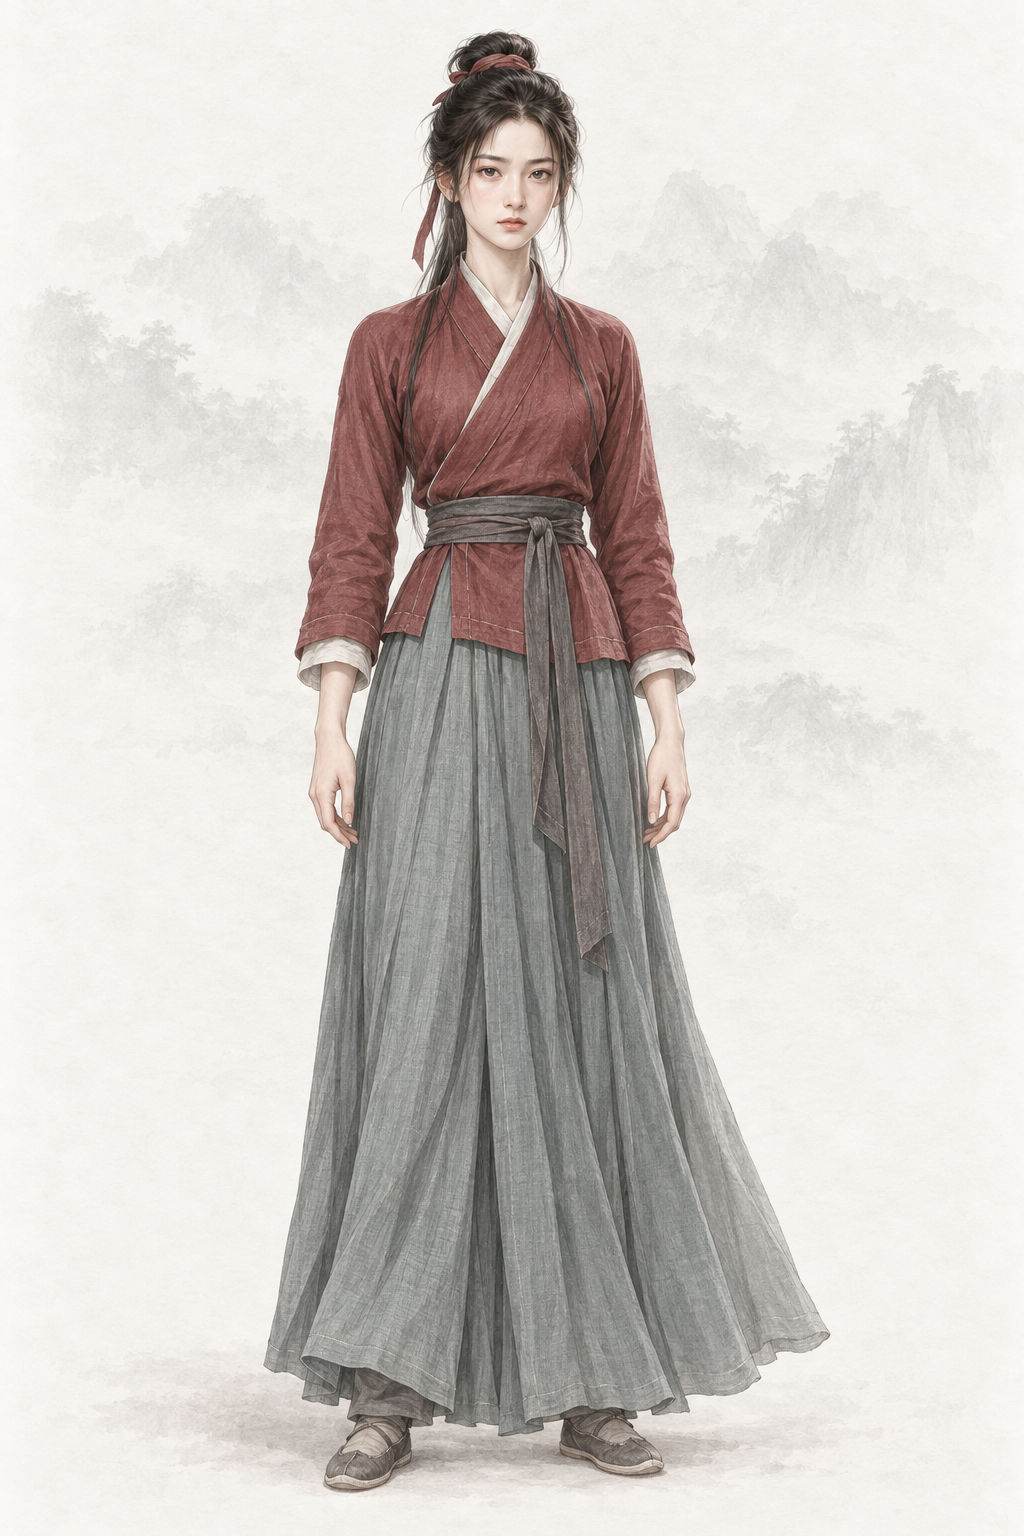
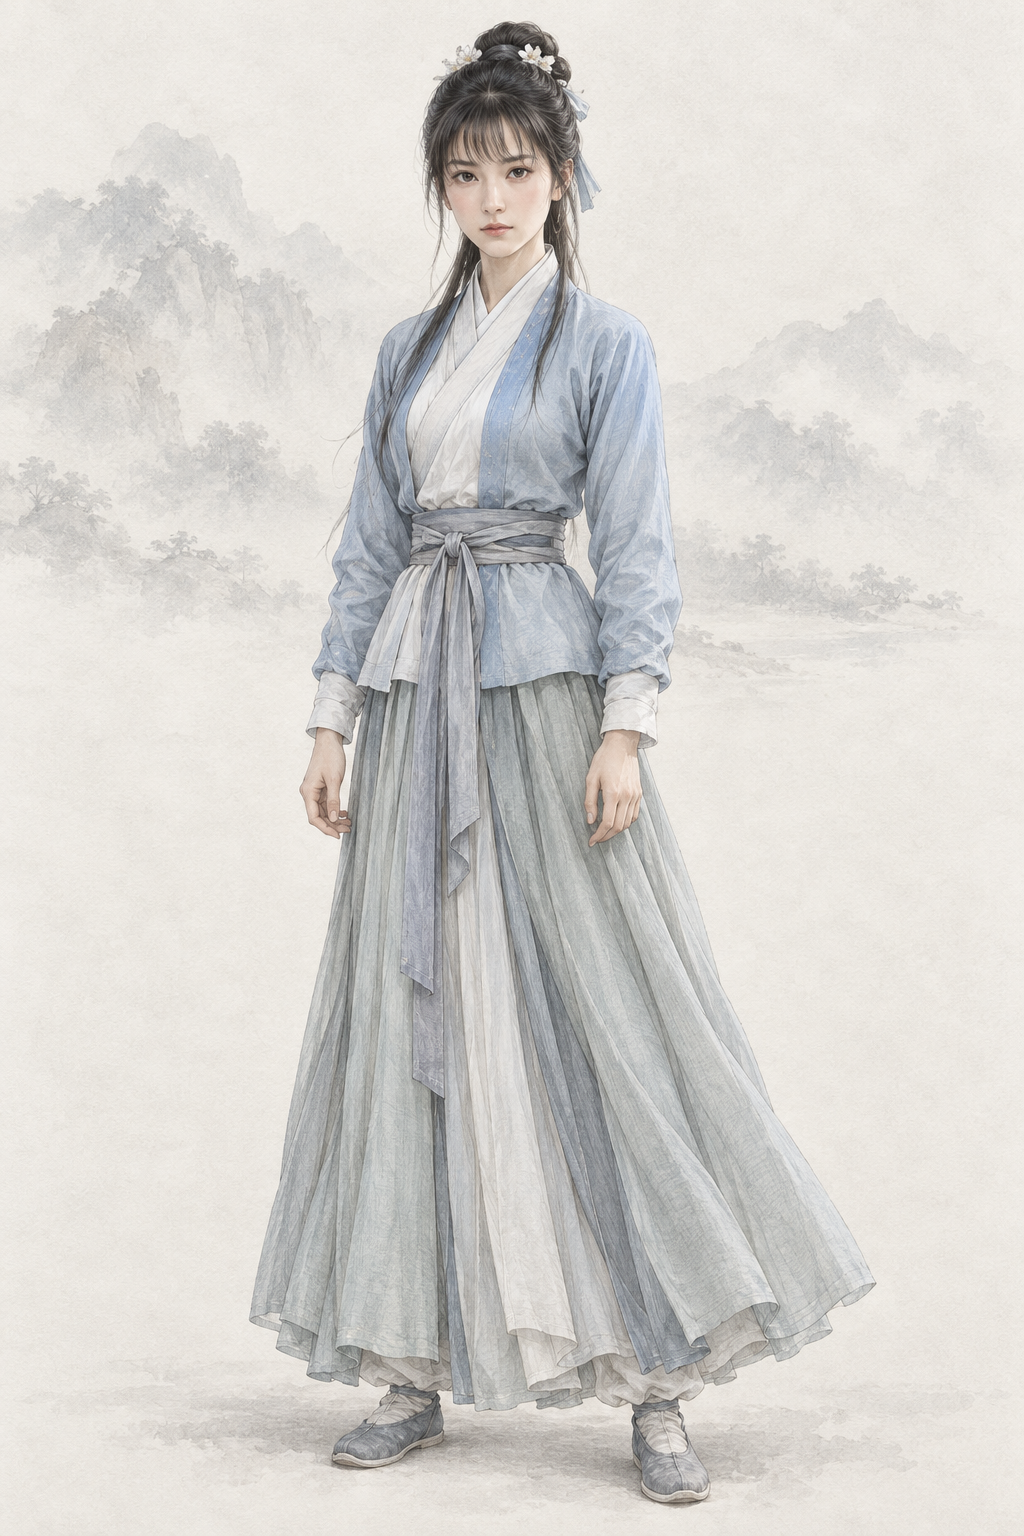
assets(character): por_npc_munianci__ch02_youth_base 穆念慈（codex · AR-32 经典剧照 + 基线）
参考 1983 TVB《射雕英雄传》 剧照（munianci_1983_yangpanpan_hk01_20240720.jpg）与两张同性别基线重出；提示词写回、frontmatter 加 classic_ref。

diff --git a/assets/default/prompts/characters/ch02-shediao/npc_munianci.md b/assets/default/prompts/characters/ch02-shediao/npc_munianci.md
@@ -16,13 +16,40 @@ references:
 status: redo
 realism_revision: user_identity_pose_20261001
 redo_reason: "旧图以剧照为第一身份参考生成（A 级肖像风险；REVIEW-portraits-A 待作者裁定项，按默认重出），按原著外貌用文字原创重做"
-reference_upload: []
+reference_upload:
+- .agents/coord/imagegen-reference/identity-20261001/shediao/munianci_1983_yangpanpan_hk01_20240720.jpg
+- assets/default/baseline/character/female/ref_npc_wangyuyan__ch01_base01.png
+- assets/default/baseline/character/female/ref_npc_xiaolongnv__ch03_base01.png
 codex_prompt_rev: 2026-10-02
+classic_ref:
+  version: 1983 TVB《射雕英雄传》
+  stills:
+  - .agents/coord/imagegen-reference/identity-20261001/shediao/munianci_1983_yangpanpan_hk01_20240720.jpg
 ---
 
 # 穆念慈 · 人物写实修正
 
 ## Gemini 提示词
+
+> 2026-10-02 AR-32 重出（5 号出图员，codex exec · image_gen）：主要角色改为参考经典影视版剧照加项目基线生成。上传顺序：1983 TVB《射雕英雄传》 剧照 1 张（munianci_1983_yangpanpan_hk01_20240720.jpg），最后两张为同性别画风基线（缩小版 JPEG）。剧照只借造型、气质与面部特征，画面按项目画风重绘、不复制照片。上一版（AR-31 文字版）保留在下一节作历史。
+
+```text
+生成一张 2:3 竖幅全身人物立绘：单人、单一视角、完整全身——头顶、双手、双脚和手中器物的两端都在画面内，四周留出自然空白；人物站姿自然，身体基本朝向正面，头部端正（不歪头、不仰不俯），镜头平视。
+【画风】写实手绘古风人物插画，与本项目写实武侠角色立绘同一画风，像功力深厚的画师用细腻笔触画出的真实美人。手绘插画质感，不是 CG 渲染：不要过度光滑的皮肤、完美对称的五官、塑料高光、过度锐利的发丝；保留自然的笔触和细微不完美。肌肤细腻自然，看得见极细的肤理和自然的左右不对称，不磨皮、不油亮、不打粉；头发是一缕缕自然的发丝和少量碎发；布料看得出经纬纹理、厚薄和自然垂坠的褶皱，干净完整；整体设色低饱和、雅致；柔和的自然光从左上方照来，明暗过渡自然，不打舞台光、轮廓光或美颜柔光。不是照片，不是三维渲染，不是动漫或游戏 CG，也不是油画（没有厚涂笔触和画布纹理）。
+【背景】不透明的暖浅灰色纸底，只在远处有极淡的水墨远山和薄雾，大面积留白；人物与背景明暗分明、轮廓边缘干净完整（后续要自动抠图），水墨和纸纹只在背景里，不侵入人物和衣服；脚下只有很淡的一点接触阴影。
+【人物】穆念慈，《射雕英雄传》杨铁心的义女，随义父在中都街头比武招亲的阶段；坚毅、正直，有自己的主见。
+【年龄与体态】原著十七八岁，按本作规定画成约二十岁的成年年轻女子，身材修长匀称，有习武的轻捷。成年女性的五官骨相与身体比例（约 7 头身），衣着完整端庄、不透明、不暴露、不性感化。
+【经典造型】以八十年代经典港剧里那位娟秀坚毅的穆念慈为蓝本（见剧照）：清秀的鹅蛋脸、明亮清澈而坚毅的眼睛；乌发挽髻、额前一层薄薄的刘海、髻边点缀几朵小白花；一身浅蓝与月白相间的衣裙；温婉中带着英气。
+【面容】原著概括（待考）：玉立亭亭，虽脸有风尘之色，但明眸皓齿、容颜娟好。具体为：清秀的鹅蛋脸、下颌线利落；眉毛清秀而平；一双明亮清澈的眼睛，眼神坚毅；鼻梁秀直；唇形端正；肌肤白净，带一点旅途风尘。娟秀美丽、英气内敛。
+【发式】乌发挽成简洁的发髻，髻边点缀几朵小白花，额前一层薄薄的刘海。
+【服饰】浅蓝色交领右衽窄袖短袄、月白内衫（配色取经典造型），灰青长裙（裙内有长裤），布腰带，布鞋；朴素而整洁，是江湖卖艺人家的打扮。
+【道具】空手，双手自然垂下。
+【姿态与神情】挺拔站立，神情坚毅、略带忧思。
+【不要】画面里不要任何文字、题款、印章、签名、水印、边框、分格或多视图；不要第二个人；不要幼态（童颜、娃娃脸、婴儿肥、儿童或少年身材、大头小身）；不要塑料感皮肤、磨皮美颜、网红脸（尖下巴大眼高鼻的模板脸）、过度对称、浓妆、偶像式打光、蜡像感；不要照片质感、三维渲染或动漫大眼；不要歪头、斜镜头；不要多指、缺指（设定的伤残除外）、手与器物粘连或悬空；汉式交领必须右衽（穿着者的左襟压在右襟上），不要左衽（设定为少数民族服制的除外），不要水平镜像；不要现代物品、发光特效、法阵或能量光。不要娃娃脸、少女或儿童身材；不要浓妆、珠翠；不要抱婴儿（那是后来的阶段）。
+【参考图】随提示词上传的参考图共 3 张，按顺序：第 1 张是这个角色经典影视造型的剧照：借鉴其发型、服饰、配色、标志道具、气质和面部特征，让人一眼认出是这个角色；但必须重新绘制成本项目的画风，不要照片质感，不要照搬剧照的构图、光影、背景和姿势，也不要做成照片修图；剧照与上文文字有出入时，以上文文字为准。最后两张是本项目的立绘画风基线：画风、用色、光线、质感和暖浅灰纸底加淡水墨的背景以它们为准——精细写实的数字手绘插画，不是油画，不要厚涂笔触和画布纹理；基线图里人物的长相、年龄、发型、服饰和姿势一律不取。
+```
+
+## AR-31 文字版 Gemini 提示词（2026-10-02 凌晨；AR-32 剧照版之前，历史，不再用于出图）
 
 > 2026-10-02 按原著外貌以文字重写（文字稿由 1 号出图员起草，3 号出图员写回并出图；codex exec · image_gen）：旧图以剧照为第一身份参考生成，属 `tools/agents/reports/REVIEW-portraits-A-ch00-04.md` 的「剧照派生 A 级配角 · 待作者裁定」项，协调者按默认转为本轮重出。不写演员名、不用剧照、原创面孔，禁止幼态；出图只上传两张同性别基线立绘作画风参考，不上传身份参考（`reference_upload: []`）。frontmatter 的 `references` 与本节以下的旧提示词是旧出图管线的历史记录，不再用于出图。
 
